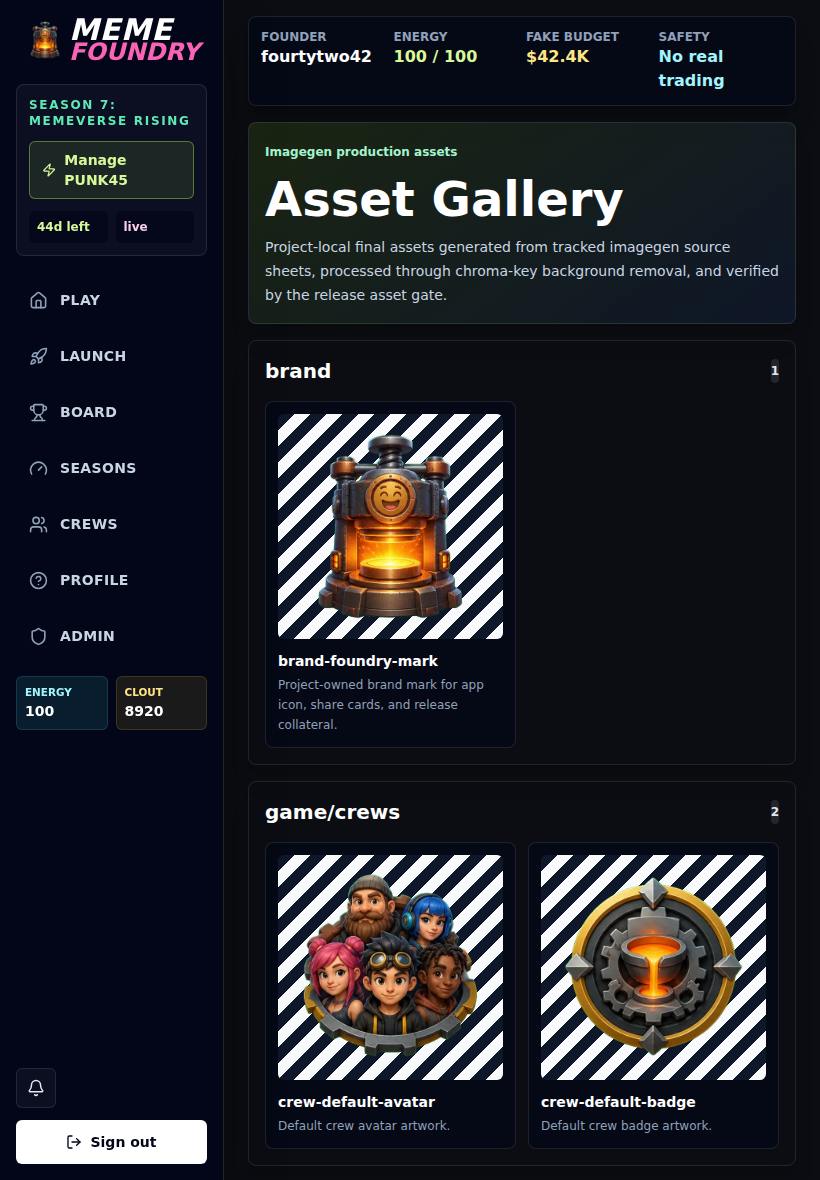
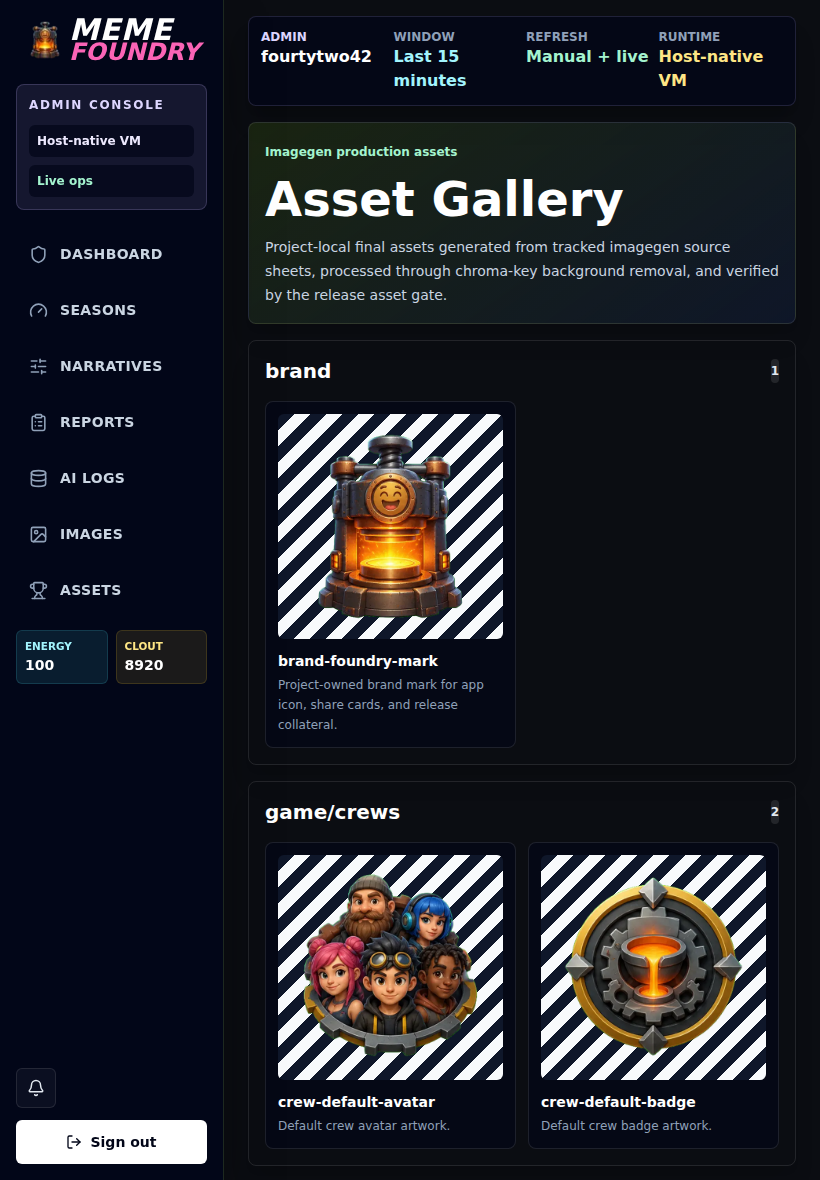
Add admin shell alignment mode

diff --git a/apps/web/src/components/shell/app-shell.tsx b/apps/web/src/components/shell/app-shell.tsx
@@ -9,11 +9,15 @@ import { prisma } from "@meme-foundry/db";
 import {
   Bell,
   CircleHelp,
+  ClipboardList,
+  Database,
   Gauge,
   Home,
+  ImageIcon,
   LogOut,
   Rocket,
   Shield,
+  SlidersHorizontal,
   Trophy,
   Users,
   Zap
@@ -30,13 +34,34 @@ const primaryNav: NavItem[] = [
   { href: "/profile", label: "Profile", icon: CircleHelp }
 ];
 
+const adminNav: NavItem[] = [
+  { href: "/admin", label: "Dashboard", icon: Shield },
+  { href: "/admin#season-editor" as Route, label: "Seasons", icon: Gauge },
+  {
+    href: "/admin#narrative-editor" as Route,
+    label: "Narratives",
+    icon: SlidersHorizontal
+  },
+  { href: "/admin#reports" as Route, label: "Reports", icon: ClipboardList },
+  { href: "/admin#ai-logs" as Route, label: "AI logs", icon: Database },
+  { href: "/admin#image-jobs" as Route, label: "Images", icon: ImageIcon },
+  { href: "/admin/assets", label: "Assets", icon: Trophy }
+];
+
 function daysLeft(endsAt?: Date) {
   if (!endsAt) return "--";
   return `${Math.max(0, Math.ceil((endsAt.getTime() - Date.now()) / 86400000))}d left`;
 }
 
-export async function AppShell({ children }: { children: React.ReactNode }) {
+export async function AppShell({
+  children,
+  variant = "player"
+}: {
+  children: React.ReactNode;
+  variant?: "player" | "admin";
+}) {
   const session = await auth();
+  const isAdminShell = variant === "admin";
   const [season, activeToken, profile] = await Promise.all([
     prisma.season.findFirst({
       where: { status: "active" },
@@ -52,8 +77,9 @@ export async function AppShell({ children }: { children: React.ReactNode }) {
       ? prisma.founderProfile.findUnique({ where: { userId: session.user.id } })
       : null
   ]);
-  const nav: NavItem[] =
-    session?.user.role === "admin"
+  const nav: NavItem[] = isAdminShell
+    ? adminNav
+    : session?.user.role === "admin"
       ? [...primaryNav, { href: "/admin", label: "Admin", icon: Shield }]
       : primaryNav;
 
@@ -86,37 +112,54 @@ export async function AppShell({ children }: { children: React.ReactNode }) {
             </span>
           </span>
         </Link>
-        <div className="mt-4 rounded-lg border border-white/10 bg-white/[0.04] p-2 sm:mt-5 sm:p-3">
-          <p className="text-xs font-bold uppercase tracking-[0.14em] text-emerald-300">
-            <span className="hidden sm:inline">
-              {season?.name ?? "No active season"}
-            </span>
-            <span className="sm:hidden">
-              {season?.name ? season.name.slice(0, 2) : "--"}
-            </span>
-          </p>
-          {activeToken ? (
-            <Link
-              aria-label={`Manage ${activeToken.ticker}`}
-              className="mt-3 inline-flex min-h-10 w-full items-center justify-center gap-2 rounded-md border border-lime-300/40 bg-lime-300/10 px-2 py-2 text-sm font-black text-lime-200 hover:bg-lime-300/20 sm:px-3"
-              data-testid="manage-launch-affordance"
-              href={`/launch/${activeToken.id}/manage` as Route}
-            >
-              <Zap aria-hidden="true" size={16} />
-              <span className="hidden sm:inline">
-                Manage {activeToken.ticker}
-              </span>
-            </Link>
-          ) : null}
-          <div className="mt-3 hidden grid-cols-2 gap-2 text-xs font-black sm:grid">
-            <div className="rounded-md bg-slate-950/70 p-2 text-lime-200">
-              {daysLeft(season?.endsAt)}
-            </div>
-            <div className="rounded-md bg-slate-950/70 p-2 text-pink-200">
-              live
+        {isAdminShell ? (
+          <div className="mt-4 rounded-lg border border-violet-300/20 bg-violet-300/10 p-2 sm:mt-5 sm:p-3">
+            <p className="text-xs font-bold uppercase tracking-[0.14em] text-violet-200">
+              <span className="hidden sm:inline">Admin console</span>
+              <span className="sm:hidden">AD</span>
+            </p>
+            <div className="mt-3 hidden grid-cols-1 gap-2 text-xs font-black sm:grid">
+              <div className="rounded-md bg-slate-950/70 p-2 text-violet-100">
+                Host-native VM
+              </div>
+              <div className="rounded-md bg-slate-950/70 p-2 text-emerald-200">
+                Live ops
+              </div>
             </div>
           </div>
-        </div>
+        ) : (
+          <div className="mt-4 rounded-lg border border-white/10 bg-white/[0.04] p-2 sm:mt-5 sm:p-3">
+            <p className="text-xs font-bold uppercase tracking-[0.14em] text-emerald-300">
+              <span className="hidden sm:inline">
+                {season?.name ?? "No active season"}
+              </span>
+              <span className="sm:hidden">
+                {season?.name ? season.name.slice(0, 2) : "--"}
+              </span>
+            </p>
+            {activeToken ? (
+              <Link
+                aria-label={`Manage ${activeToken.ticker}`}
+                className="mt-3 inline-flex min-h-10 w-full items-center justify-center gap-2 rounded-md border border-lime-300/40 bg-lime-300/10 px-2 py-2 text-sm font-black text-lime-200 hover:bg-lime-300/20 sm:px-3"
+                data-testid="manage-launch-affordance"
+                href={`/launch/${activeToken.id}/manage` as Route}
+              >
+                <Zap aria-hidden="true" size={16} />
+                <span className="hidden sm:inline">
+                  Manage {activeToken.ticker}
+                </span>
+              </Link>
+            ) : null}
+            <div className="mt-3 hidden grid-cols-2 gap-2 text-xs font-black sm:grid">
+              <div className="rounded-md bg-slate-950/70 p-2 text-lime-200">
+                {daysLeft(season?.endsAt)}
+              </div>
+              <div className="rounded-md bg-slate-950/70 p-2 text-pink-200">
+                live
+              </div>
+            </div>
+          </div>
+        )}
         <nav aria-label="Primary" className="mt-5 grid gap-2">
           {nav.map((item) => (
             <Link
@@ -188,7 +231,39 @@ export async function AppShell({ children }: { children: React.ReactNode }) {
         data-testid="app-scroll-content"
       >
         <div className="mx-auto max-w-[94rem] px-3 py-3 sm:px-6 sm:py-4 lg:px-6 xl:px-8">
-          {session?.user ? (
+          {session?.user && isAdminShell ? (
+            <div
+              className="mb-4 grid gap-2 rounded-lg border border-violet-300/15 bg-slate-950/70 p-3 shadow-xl shadow-black/20 sm:grid-cols-4"
+              data-testid="admin-resource-strip"
+            >
+              <div>
+                <p className="text-xs font-black uppercase text-violet-200">
+                  Admin
+                </p>
+                <p className="truncate font-black text-white">
+                  {session.user.username}
+                </p>
+              </div>
+              <div>
+                <p className="text-xs font-black uppercase text-slate-400">
+                  Window
+                </p>
+                <p className="font-black text-cyan-200">Last 15 minutes</p>
+              </div>
+              <div>
+                <p className="text-xs font-black uppercase text-slate-400">
+                  Refresh
+                </p>
+                <p className="font-black text-emerald-200">Manual + live</p>
+              </div>
+              <div>
+                <p className="text-xs font-black uppercase text-slate-400">
+                  Runtime
+                </p>
+                <p className="font-black text-amber-200">Host-native VM</p>
+              </div>
+            </div>
+          ) : session?.user ? (
             <div
               className="mb-4 grid gap-2 rounded-lg border border-white/10 bg-slate-950/55 p-3 shadow-xl shadow-black/20 sm:grid-cols-4"
               data-testid="shell-resource-strip"

diff --git a/apps/web/src/app/admin/page.tsx b/apps/web/src/app/admin/page.tsx
@@ -76,7 +76,7 @@ export default async function AdminPage() {
   ]);
 
   return (
-    <AppShell>
+    <AppShell variant="admin">
       <div className="grid gap-4" data-testid="admin-page">
         <NeonPanel tone="violet">
           <div className="grid gap-5 lg:grid-cols-[minmax(0,1fr)_20rem] lg:items-center">
@@ -270,7 +270,7 @@ export default async function AdminPage() {
           </Panel>
         </Panel>
 
-        <Panel data-testid="admin-season-editor">
+        <Panel data-testid="admin-season-editor" id="season-editor">
           <div className="flex flex-wrap items-center justify-between gap-3">
             <div>
               <p className="text-xs font-semibold uppercase tracking-[0.16em] text-slate-400">
@@ -317,7 +317,7 @@ export default async function AdminPage() {
           </div>
         </Panel>
 
-        <Panel data-testid="admin-narrative-editor">
+        <Panel data-testid="admin-narrative-editor" id="narrative-editor">
           <div className="flex flex-wrap items-center justify-between gap-3">
             <div>
               <p className="text-xs font-semibold uppercase tracking-[0.16em] text-slate-400">
@@ -371,7 +371,7 @@ export default async function AdminPage() {
           </div>
         </Panel>
 
-        <Panel data-testid="admin-reports">
+        <Panel data-testid="admin-reports" id="reports">
           <div className="flex flex-wrap items-center justify-between gap-3">
             <div>
               <p className="text-xs font-semibold uppercase tracking-[0.16em] text-slate-400">
@@ -430,7 +430,7 @@ export default async function AdminPage() {
           </div>
         </Panel>
 
-        <Panel data-testid="admin-ai-logs">
+        <Panel data-testid="admin-ai-logs" id="ai-logs">
           <div className="flex flex-wrap items-center justify-between gap-3">
             <div>
               <p className="text-xs font-semibold uppercase tracking-[0.16em] text-slate-400">
@@ -481,7 +481,7 @@ export default async function AdminPage() {
           </div>
         </Panel>
 
-        <Panel data-testid="admin-image-jobs">
+        <Panel data-testid="admin-image-jobs" id="image-jobs">
           <div className="flex flex-wrap items-center justify-between gap-3">
             <div>
               <p className="text-xs font-semibold uppercase tracking-[0.16em] text-slate-400">

diff --git a/apps/web/src/app/admin/assets/page.tsx b/apps/web/src/app/admin/assets/page.tsx
@@ -46,7 +46,7 @@ export default async function AdminAssetsPage() {
   const categories = Array.from(new Set(assets.map((asset) => asset.category)));
 
   return (
-    <AppShell>
+    <AppShell variant="admin">
       <div className="grid gap-4" data-testid="admin-assets-page">
         <Panel className="border-lime-300/20 bg-[linear-gradient(145deg,rgba(132,204,22,0.13),rgba(15,23,42,0.94))]">
           <Badge tone="good">Imagegen production assets</Badge>

diff --git a/docs/evidence/PRD_SCREEN_ALIGNMENT_STAGE2_SHELL.md b/docs/evidence/PRD_SCREEN_ALIGNMENT_STAGE2_SHELL.md
@@ -1,0 +1,76 @@
+# PRD Screen Alignment Stage 2 Shell And Admin HUD
+
+Date: 2026-05-13
+Target: `http://192.168.50.209`
+Roadmap: `PRD_SCREEN_ALIGNMENT_ROADMAP.md`
+
+## Objective
+
+Tighten the global shell and introduce an admin-specific shell mode so the
+admin surfaces no longer feel like player pages with operations widgets dropped
+underneath.
+
+## Implementation
+
+Updated `apps/web/src/components/shell/app-shell.tsx`:
+
+- Added `variant?: "player" | "admin"`.
+- Player pages keep the existing left rail, active season card, active launch
+  affordance, and no-real-trading resource strip.
+- Admin pages use an admin nav set:
+  - Dashboard
+  - Seasons
+  - Narratives
+  - Reports
+  - AI logs
+  - Images
+  - Assets
+- Admin shell shows an admin console card, host-native VM status, live ops
+  status, and an admin resource strip with runtime/window/refresh context.
+- Admin shell removes the player active-launch affordance and player fake-budget
+  strip from admin first viewport.
+
+Updated admin routes:
+
+- `apps/web/src/app/admin/page.tsx` now uses `<AppShell variant="admin">`.
+- `apps/web/src/app/admin/assets/page.tsx` now uses
+  `<AppShell variant="admin">`.
+- Admin page sections have anchor IDs for the admin nav.
+
+## Browser-Use Verification
+
+Browser-use checked `/play`, `/admin`, and `/admin/assets` after restarting the
+host-native web service.
+
+Observed:
+
+- `/play` still shows `Season 7: Memeverse Rising`, `Manage PUNK45`, and
+  `No real trading`.
+- `/play` does not show admin shell text like `Admin console` or
+  `Host-native VM`.
+- `/admin` shows `Admin console`, `Host-native VM`, `Dashboard`,
+  `Narratives`, `Runtime`, and `Admin control room`.
+- `/admin` does not show `Manage PUNK45` or `Fake budget`.
+- `/admin/assets` shows the admin shell and `Asset Gallery`.
+- Console errors: 0 on checked routes.
+
+## Verification Commands
+
+```bash
+pnpm --filter @meme-foundry/web typecheck
+pnpm --filter @meme-foundry/web build
+echo 'Country1!' | sudo -S systemctl restart meme-foundry-web
+PLAYWRIGHT_BASE_URL=http://192.168.50.209 pnpm test:visual-audit
+```
+
+Result: passed.
+
+## Stage 2 End Gate
+
+Passed.
+
+- Player screens keep the left rail and compact player HUD.
+- Admin screens use an admin-specific shell and no longer expose player launch
+  widgets in the first viewport.
+- Mobile/tablet/desktop visual audit passed.
+- Web typecheck and build passed.
